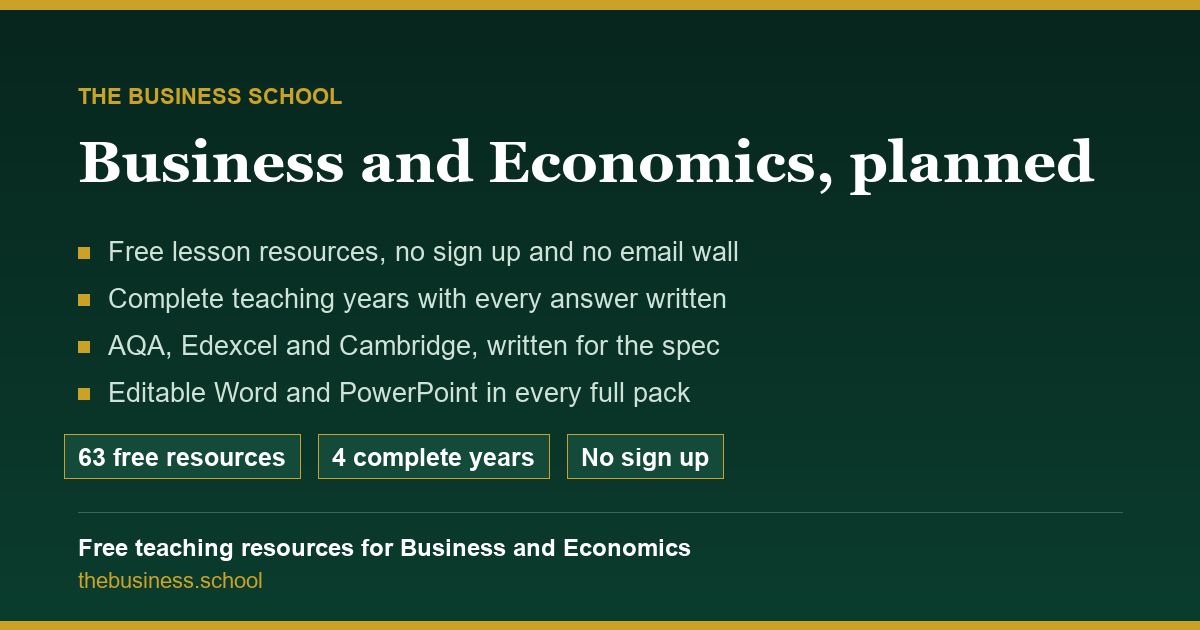
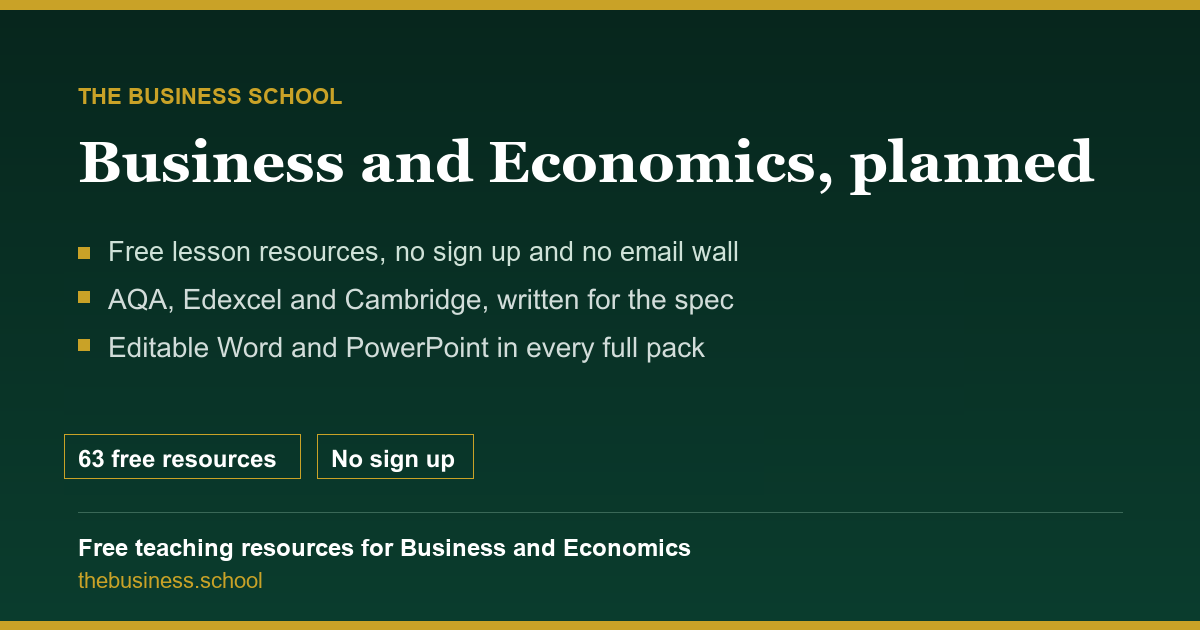
Remove outdated complete-years claim from social preview

diff --git a/index.html b/index.html
@@ -22,7 +22,7 @@
 <meta property="og:title" content="The Business School, Live A-Level Business Simulation" />
 <meta property="og:description" content="Up to 8 student teams run rival UK firms in a live classroom simulation, with key decisions linked to Edexcel topics. Joined by a PIN. Free teacher demo." />
 <meta property="og:url" content="https://thebusiness.school/" />
-<meta property="og:image" content="https://thebusiness.school/assets/og-cover.png" />
+<meta property="og:image" content="https://thebusiness.school/assets/og-cover.png?v=20261005a" />
 <meta name="twitter:card" content="summary_large_image" />
 <script type="application/ld+json">
 {"@context":"https://schema.org","@type":"SoftwareApplication","name":"The Business School","applicationCategory":"EducationalApplication","operatingSystem":"Web browser","offers":{"@type":"Offer","price":"0","priceCurrency":"GBP","description":"Free teacher demo"},"description":"A live multiplayer classroom business simulation for UK A-Level, BTEC and IGCSE Business, with key decisions linked to Edexcel topics.","publisher":{"@type":"Organization","name":"TBS Education Ltd Oy","identifier":"3614159-3","url":"https://thebusiness.school"}}
